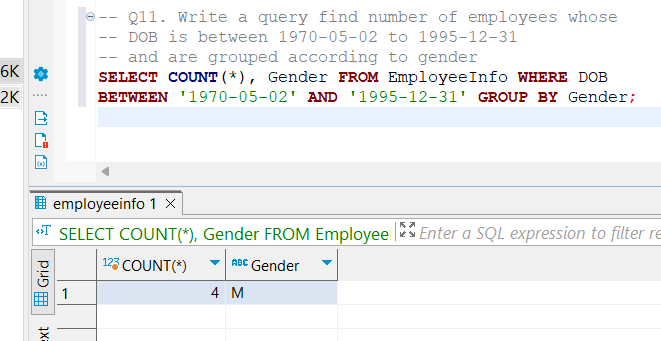
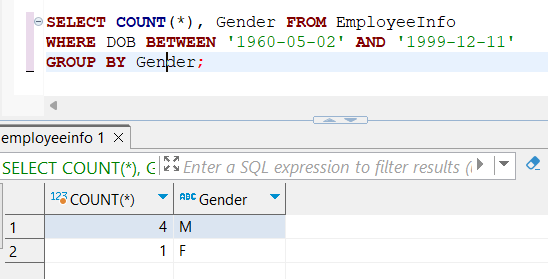
sql practices

Changed region(s): [[0.0, 0.5161, 1.0, 1.0], [0.0, 0.0, 1.0, 0.5161]]

diff --git a/sql-queries-interview-q-a/README.md b/sql-queries-interview-q-a/README.md
@@ -16,20 +16,11 @@ EmployeePosition Table:
 ```SELECT UPPER(EmpFname) AS EmpName FROM EmployeeInfo;```
 ![alt text](https://github.com/aa-nadim/dbms/blob/main/sql-queries-interview-q-a/images/q1.png?raw=true)
 
-- Q2. Write a query to fetch the number of employees working in the department ‘HR’.
-
-```SELECT COUNT(*) FROM EmployeeInfo WHERE Department = 'HR';```
-![alt text](https://github.com/aa-nadim/dbms/blob/main/sql-queries-interview-q-a/images/q2.png?raw=true)
 
 - Q4. Write a query to retrieve the first four characters of  EmpLname from the EmployeeInfo table.
 
 ```SELECT SUBSTRING(EmpLname, 1, 4) FROM EmployeeInfo;```
 ![alt text](https://github.com/aa-nadim/dbms/blob/main/sql-queries-interview-q-a/images/q4.png?raw=true)
-
-- Q5. Write a query to fetch only the place name(string before brackets) from the Address column of EmployeeInfo table.
-
-```SELECT MID(Address, 0, LOCATE('(',Address)) FROM EmployeeInfo;```
-![alt text](https://github.com/aa-nadim/dbms/blob/main/sql-queries-interview-q-a/images/q5.png?raw=true)
 
 
 - Q6. Write a query to create a new table which consists of data and structure copied from the other table.
@@ -38,3 +29,72 @@ EmployeePosition Table:
 ![alt text](https://github.com/aa-nadim/dbms/blob/main/sql-queries-interview-q-a/images/q6.png?raw=true)
 
 
+- Q7. Write q query to find all the employees whose salary is between 50000 to 100000.
+```SELECT * FROM EmployeePosition WHERE Salary BETWEEN '50000' AND '100000';```
+
+-Q8. Write a query to find the names of employees that begin with ‘S’
+```SELECT * FROM EmployeeInfo WHERE EmpFname LIKE 'S%';```
+
+
+- Q10. Write a query to retrieve the EmpFname and EmpLname in a single column as “FullName”. The first name and the last name must be separated with space.
+
+```SELECT CONCAT(EmpFname, ' ', EmpLname) AS 'FullName' FROM EmployeeInfo;```
+![alt text](https://github.com/aa-nadim/dbms/blob/main/sql-queries-interview-q-a/images/q10.png?raw=true)
+
+
+- Q11. Write a query find number of employees whose DOB is between '1960-05-02' to '1999-12-11' and are grouped according to gender
+```
+SELECT COUNT(*), Gender FROM EmployeeInfo 
+WHERE DOB BETWEEN '1960-05-02' AND '1999-12-11' 
+GROUP BY Gender;
+```
+![alt text](https://github.com/aa-nadim/dbms/blob/main/sql-queries-interview-q-a/images/q11.png?raw=true)
+
+
+- Q12. Write a query to fetch all the records from the EmployeeInfo table ordered by EmpLname in descending order and Department in the ascending order.
+
+```SELECT * FROM EmployeeInfo ORDER BY EmpFname desc, Department asc;```
+
+
+- Q13. Write a query to fetch details of employees whose EmpLname ends with an alphabet ‘A’ and contains five alphabets.
+
+```SELECT * FROM EmployeeInfo WHERE EmpLname LIKE '____a';```
+
+
+- Q14. Write a query to fetch details of all employees excluding the employees with first names, “Sanjay” and “Sonia” from the EmployeeInfo table.
+```SELECT * FROM EmployeeInfo WHERE EmpFname NOT IN ('Sanjay','Sonia');```
+
+
+- Q15. Write a query to fetch details of employees with the address as “DELHI(DEL)”.
+```SELECT * FROM EmployeeInfo WHERE Address LIKE 'DELHI(DEL)%';```
+
+
+- Q16. Write a query to fetch all employees who also hold the managerial position.
+```
+SELECT E.EmpFname, E.EmpLname, P.EmpPosition 
+FROM EmployeeInfo E INNER JOIN EmployeePosition P ON
+E.EmpID = P.EmpID AND P.EmpPosition IN ('Manager');
+```
+
+![alt text](https://github.com/aa-nadim/dbms/blob/main/sql-queries-interview-q-a/images/q16_1.png?raw=true)
+
+![alt text](https://github.com/aa-nadim/dbms/blob/main/sql-queries-interview-q-a/images/q16_2.png?raw=true)
+
+![alt text](https://github.com/aa-nadim/dbms/blob/main/sql-queries-interview-q-a/images/q16_3.png?raw=true)
+
+
+- Q17. Write a query to fetch the department-wise count of employees sorted by department’s count in ascending order.
+```
+SELECT Department, count(EmpID) AS EmpDeptCount 
+FROM EmployeeInfo GROUP BY Department 
+ORDER BY EmpDeptCount ASC;
+```
+
+- Subquery
+- Q19. Write a SQL query to retrieve employee details from EmployeeInfo table who have a date of joining in the EmployeePosition table.
+```
+SELECT * FROM EmployeeInfo E 
+WHERE EXISTS 
+(SELECT * FROM EmployeePosition P WHERE E.EmpId = P.EmpId);
+```
+![alt text](https://github.com/aa-nadim/dbms/blob/main/sql-queries-interview-q-a/images/q19.png?raw=true)
